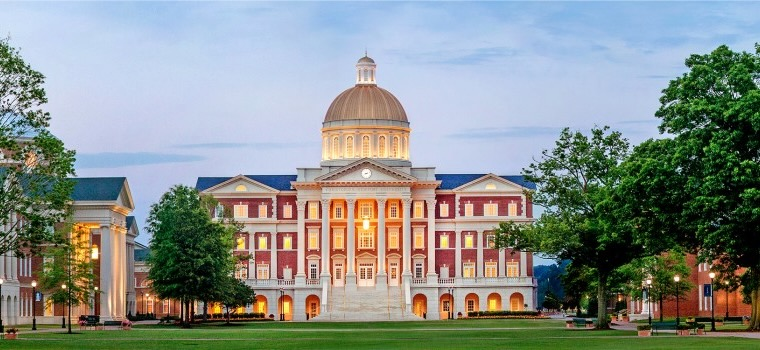
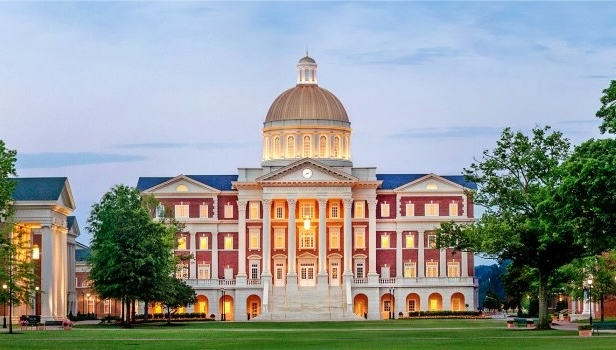
Modify: login.php background

diff --git a/backend/login.php b/backend/login.php
@@ -9,6 +9,8 @@ if (isset($_SESSION['user_id'])) {
 
 $loggedOut = isset($_GET['logged_out']) && $_GET['logged_out'] === '1';
 $pendingRequestSubmitted = isset($_GET['pending_request']) && $_GET['pending_request'] === '1';
+$loginBackground = 'IMG_6123.jpeg';
+$loginBackgroundVersion = file_exists(__DIR__ . '/' . $loginBackground) ? filemtime(__DIR__ . '/' . $loginBackground) : time();
 
 if ($_SERVER["REQUEST_METHOD"] == "POST") {
     $email = trim($_POST['email'] ?? '');
@@ -70,15 +72,33 @@ if ($_SERVER["REQUEST_METHOD"] == "POST") {
             padding: 0;
             font-family: 'Inter', sans-serif;
             background-color: #1a2d45;
-            background-image: url('');
-            background-size: cover;
-            background-position: center;
-            background-repeat: no-repeat;
-            background-attachment: fixed;
             color: var(--text-dark);
             display: flex;
             flex-direction: column;
             min-height: 100vh;
+            position: relative;
+            overflow: hidden;
+        }
+
+        body::before {
+            content: '';
+            position: fixed;
+            inset: 0;
+            background-image: url('<?php echo htmlspecialchars($loginBackground . '?v=' . (string)$loginBackgroundVersion); ?>');
+            background-size: cover;
+            background-position: center;
+            background-repeat: no-repeat;
+            filter: blur(5px);
+            transform: scale(1.03);
+            z-index: -2;
+        }
+
+        body::after {
+            content: '';
+            position: fixed;
+            inset: 0;
+            background: rgba(0, 0, 0, 0.2);
+            z-index: -1;
         }
 
         header {
